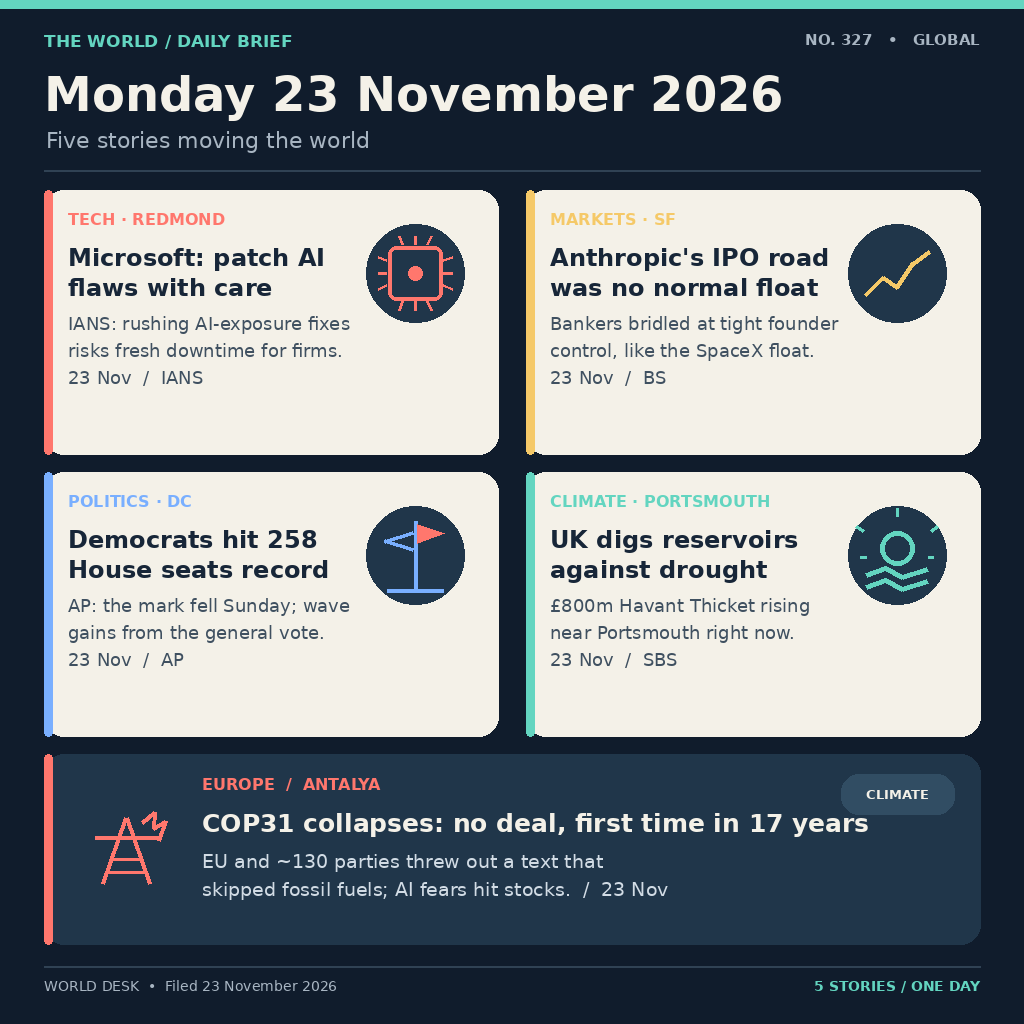
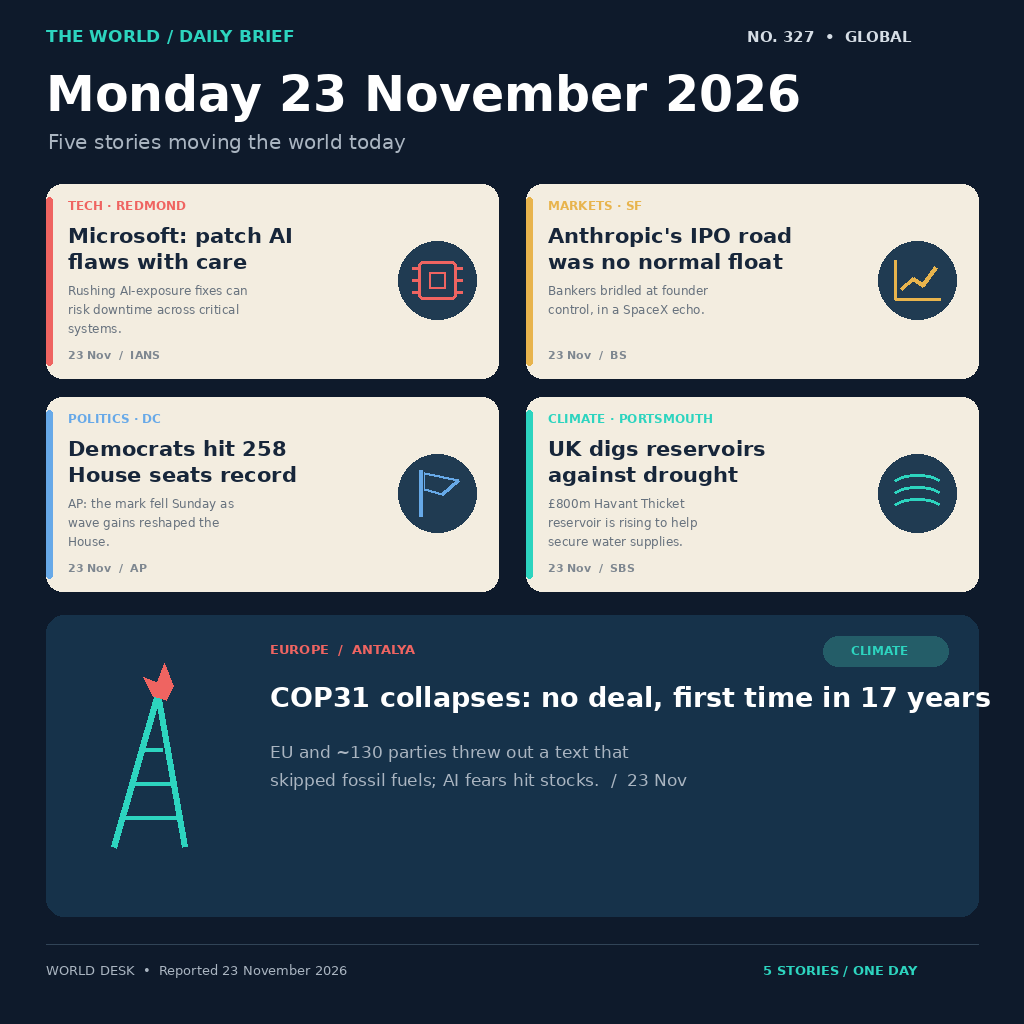
news r5 edits

diff --git a/main.py b/main.py
@@ -1,152 +1,87 @@
-# news-image-20261123 · revision 3
-#!/usr/bin/env python3
-"""Reusable news-image generator (news-image-20261123, based on proven news22d/repo3 engine).
+import os
+from PIL import Image, ImageDraw, ImageFont
 
-NEXT-RUN USAGE:
-  1. Edit DATE_LINE and STORIES below with 23 Nov 2026 news (5-6 stories, cross-region/field).
-  2. Test: mkdir -p out && MAKEFUN_OUTPUT_DIR=out python3 main.py   (check out/entry.png < 1 MiB, 1024x1024)
-  3. Copy out/entry.png to repo root as entry.png, commit, submit.
-"""
-import os, shutil, sys
-try:
-    from PIL import Image, ImageDraw, ImageFont
-except Exception:
-    os.makedirs("/output", exist_ok=True)
-    shutil.copyfile("/bot/entry.png", "/output/entry.png")
-    sys.exit(0)
-
-OUT = os.environ.get("MAKEFUN_OUTPUT_DIR", "/output") + "/entry.png"
 W = H = 1024
-BG = "#101C2C"
-PAPER = "#F4F1E8"
-INK = "#172638"
-MUTED = "#A8B5C2"
-TEAL = "#63D5C0"
-CORAL = "#FF776D"
-GOLD = "#F5C968"
-BLUE = "#79AFFF"
+NAVY = "#0e1a2b"
+TEAL = "#2dd4bf"
+CREAM = "#f3ede0"
+GRAY = "#aab5c1"
+INK = "#17263a"
+OUT = os.path.join(os.environ.get("MAKEFUN_OUTPUT_DIR", "out"), "entry.png")
 
-# ---------------- EDIT ONLY THIS BLOCK NEXT RUN ----------------
-DATE_LINE = "Monday 23 November 2026"
-SUBHEAD = "Five stories moving the world"
-STORIES = [
-    # STORIES — authored 23 Nov r4
-    (CORAL, "Tech · Redmond", ["Microsoft: patch AI", "flaws with care"],
-     ["IANS: rushing AI-exposure fixes", "risks fresh downtime for firms.", "23 Nov  /  IANS"], "ai"),
-    (GOLD, "Markets · SF", ["Anthropic's IPO road", "was no normal float"],
-     ["Bankers bridled at tight founder", "control, like the SpaceX float.", "23 Nov  /  BS"], "market"),
-    (BLUE, "Politics · DC", ["Democrats hit 258", "House seats record"],
-     ["AP: the mark fell Sunday; wave", "gains from the general vote.", "23 Nov  /  AP"], "diplomacy"),
-    (TEAL, "Climate · Portsmouth", ["UK digs reservoirs", "against drought"],
-     ["£800m Havant Thicket rising", "near Portsmouth right now.", "23 Nov  /  SBS"], "climate"),
-]
-# Wide bottom story (diplomatic dispatch style)
-WIDE = {
-    "region": "EUROPE  /  ANTALYA", "accent": CORAL, "kind": "fire",
-    "title": "COP31 collapses: no deal, first time in 17 years",
-    "l1": "EU and ~130 parties threw out a text that",
-    "l2": "skipped fossil fuels; AI fears hit stocks.  /  23 Nov",
-    "badge": "CLIMATE",
-}
-FOOTER_LEFT = "WORLD DESK  •  Filed 23 November 2026"
-# ----------------------------------------------------------------
-
-def font(size, bold=False):
-    candidates = (["/usr/share/fonts/truetype/dejavu/DejaVuSans-Bold.ttf"] if bold else
-                  ["/usr/share/fonts/truetype/dejavu/DejaVuSans.ttf"])
-    for path in candidates:
-        if os.path.exists(path):
-            return ImageFont.truetype(path, size)
-    return ImageFont.load_default()
-
-im = Image.new("RGB", (W, H), BG)
+im = Image.new("RGB", (W, H), NAVY)
 d = ImageDraw.Draw(im)
+font_dir = "/usr/share/fonts/truetype/dejavu"
+regular = os.path.join(font_dir, "DejaVuSans.ttf")
+bold = os.path.join(font_dir, "DejaVuSans-Bold.ttf")
+def f(size, heavy=False):
+    return ImageFont.truetype(bold if heavy else regular, size)
 
-def rr(box, radius, fill, outline=None, width=1):
-    d.rounded_rectangle(box, radius=radius, fill=fill, outline=outline, width=width)
+def text(x, y, value, size, color, heavy=False):
+    d.text((x, y), value, font=f(size, heavy), fill=color)
 
-def text(x, y, s, size, fill=INK, bold=False, anchor=None):
-    d.text((x, y), s, font=font(size, bold), fill=fill, anchor=anchor)
+def badge(cx, cy, kind, color):
+    r = 39
+    d.ellipse((cx-r, cy-r, cx+r, cy+r), fill="#203b52")
+    if kind == "chip":
+        d.rounded_rectangle((cx-19, cy-19, cx+19, cy+19), radius=5, outline=color, width=3)
+        d.rectangle((cx-8, cy-8, cx+8, cy+8), outline=color, width=2)
+        for n in (-12, 0, 12):
+            d.line((cx-25, cy+n, cx-19, cy+n), fill=color, width=3)
+            d.line((cx+19, cy+n, cx+25, cy+n), fill=color, width=3)
+    elif kind == "chart":
+        d.line((cx-22, cy+19, cx-22, cy-20), fill=color, width=3)
+        d.line((cx-22, cy+19, cx+23, cy+19), fill=color, width=3)
+        d.line((cx-16, cy+9, cx-4, cy-2, cx+6, cy+5, cx+19, cy-13), fill=color, width=4, joint="curve")
+    elif kind == "flag":
+        d.line((cx-16, cy+23, cx-16, cy-23), fill=color, width=4)
+        d.polygon(((cx-13,cy-20),(cx+21,cy-13),(cx+5,cy+1),(cx-13,cy-4)), outline=color)
+        d.line((cx-13, cy-20, cx+21, cy-13, cx+5, cy+1, cx-13, cy-4), fill=color, width=3)
+    else:
+        for off in (-10, 2, 14):
+            d.arc((cx-24, cy+off-9, cx+24, cy+off+9), 200, 340, fill=color, width=3)
 
-def line(points, fill, width=4):
-    d.line(points, fill=fill, width=width, joint="curve")
+text(46, 26, "THE WORLD / DAILY BRIEF", 17, TEAL, True)
+text(747, 28, "NO. 327  •  GLOBAL", 15, "#d5dde5", True)
+text(46, 65, "Monday 23 November 2026", 49, "#ffffff", True)
+text(48, 130, "Five stories moving the world today", 20, GRAY)
 
-def icon(kind, cx, cy, color):
-    d.ellipse((cx-49, cy-49, cx+49, cy+49), fill="#20364A")
-    if kind == "climate":
-        d.ellipse((cx-17, cy-24, cx+17, cy+10), outline=color, width=5)
-        for a,b in [(-34,-24),(-31,2),(34,-24),(31,2),(0,-39)]:
-            line([(cx+a,cy+b),(cx+a*1.18,cy+b*1.18)], color, 3)
-        line([(cx-31,cy+20),(cx-12,cy+13),(cx+5,cy+22),(cx+30,cy+14)], color, 5)
-        line([(cx-31,cy+32),(cx-12,cy+25),(cx+5,cy+34),(cx+30,cy+26)], color, 5)
-    elif kind == "ai":
-        rr((cx-27,cy-27,cx+27,cy+27),8,None,color,4)
-        for dx,dy in [(-37,-16),(-37,0),(-37,16),(37,-16),(37,0),(37,16),(-16,-37),(0,-37),(16,-37),(-16,37),(0,37),(16,37)]:
-            line([(cx+dx,cy+dy),(cx+dx*0.78,cy+dy*0.78)],color,3)
-        d.ellipse((cx-7,cy-7,cx+7,cy+7),fill=color)
-    elif kind == "ship":
-        line([(cx-37,cy+12),(cx+37,cy+12),(cx+23,cy+29),(cx-23,cy+29),(cx-37,cy+12)],color,4)
-        rr((cx-19,cy-12,cx+15,cy+9),3,None,color,4)
-        line([(cx-26,cy+38),(cx-9,cy+33),(cx+8,cy+38),(cx+25,cy+33)],color,3)
-        line([(cx+30,cy-31),(cx+19,cy-18),(cx+31,cy-15),(cx+20,cy-1)],GOLD,4)
-    elif kind == "fire":
-        line([(cx-23,cy+34),(cx,cy-32),(cx+23,cy+34)],color,4)
-        line([(cx-16,cy+10),(cx+16,cy+10)],color,3)
-        line([(cx-20,cy+23),(cx+20,cy+23)],color,3)
-        line([(cx-31,cy-12),(cx+31,cy-12)],color,4)
-        line([(cx+16,cy-27),(cx+28,cy-37),(cx+27,cy-21),(cx+39,cy-28),(cx+32,cy-8)],CORAL,4)
-    elif kind == "diplomacy":
-        line([(cx,cy-34),(cx,cy+35)],color,4)
-        d.polygon([(cx+2,cy-31),(cx+29,cy-22),(cx+2,cy-12)],fill=CORAL)
-        line([(cx-2,cy-5),(cx-30,cy-14),(cx-2,cy-23)],color,4)
-        line([(cx-28,cy+35),(cx+28,cy+35)],color,4)
-    elif kind == "health":
-        line([(cx,cy-28),(cx,cy+28)],color,6)
-        line([(cx-28,cy),(cx+28,cy)],color,6)
-        d.ellipse((cx-34,cy-16,cx-18,cy),outline=color,width=3)
-    elif kind == "market":
-        line([(cx-32,cy+22),(cx-14,cy+4),(cx, cy+14),(cx+16,cy-10),(cx+32,cy-22)],color,4)
+cards = [
+    (46, 184, "#ef6461", "TECH · REDMOND", ["Microsoft: patch AI", "flaws with care"], ["Rushing AI-exposure fixes can", "risk downtime across critical", "systems."], "23 Nov  /  IANS", "chip"),
+    (526, 184, "#e8b44d", "MARKETS · SF", ["Anthropic's IPO road", "was no normal float"], ["Bankers bridled at founder", "control, in a SpaceX echo.", ""], "23 Nov  /  BS", "chart"),
+    (46, 397, "#67a9e8", "POLITICS · DC", ["Democrats hit 258", "House seats record"], ["AP: the mark fell Sunday as", "wave gains reshaped the", "House."], "23 Nov  /  AP", "flag"),
+    (526, 397, TEAL, "CLIMATE · PORTSMOUTH", ["UK digs reservoirs", "against drought"], ["£800m Havant Thicket", "reservoir is rising to help", "secure water supplies."], "23 Nov  /  SBS", "waves"),
+]
+for x, y, accent, kicker, title, body, credit, glyph in cards:
+    d.rounded_rectangle((x, y, x+452, y+194), radius=16, fill=CREAM)
+    d.rounded_rectangle((x, y+13, x+6, y+181), radius=3, fill=accent)
+    text(x+22, y+14, kicker, 12, accent, True)
+    text(x+22, y+39, title[0], 21, INK, True)
+    text(x+22, y+65, title[1], 21, INK, True)
+    for i, line in enumerate(body):
+        if line:
+            text(x+22, y+99+i*19, line, 12, "#66717d")
+    text(x+22, y+164, credit, 11, "#7e8790", True)
+    badge(x+391, y+96, glyph, accent)
 
-def card(x, y, w, h, accent, kicker, title_lines, body_lines, kind):
-    rr((x,y,x+w,y+h),20,PAPER)
-    d.rounded_rectangle((x,y,x+8,y+h),radius=4,fill=accent)
-    icon(kind,x+w-83,y+83,accent)
-    text(x+24,y+20,kicker.upper(),16,accent,True)
-    for i, s in enumerate(title_lines):
-        text(x+24,y+53+i*30,s,24,INK,True)
-    for i, s in enumerate(body_lines):
-        text(x+24,y+123+i*27,s,18,"#3F5060")
+# The evening lead spans the full page width.
+d.rounded_rectangle((46, 615, 978, 916), radius=18, fill="#16324a")
+text(270, 641, "EUROPE  /  ANTALYA", 13, "#ef6461", True)
+d.rounded_rectangle((823, 636, 948, 666), radius=15, fill="#245d68")
+text(851, 643, "CLIMATE", 12, TEAL, True)
+text(270, 681, "COP31 collapses: no deal, first time in 17 years", 27, "#ffffff", True)
+text(270, 742, "EU and ~130 parties threw out a text that", 17, GRAY)
+text(270, 770, "skipped fossil fuels; AI fears hit stocks.  /  23 Nov", 17, GRAY)
+# A ladder beside a small flame marks the summit story.
+d.line((114, 847, 158, 694), fill=TEAL, width=6)
+d.line((185, 847, 158, 694), fill=TEAL, width=6)
+for yy in (817, 783, 749, 715):
+    d.line((125+(817-yy)//4, yy, 179-(817-yy)//4, yy), fill=TEAL, width=4)
+d.polygon(((153,696),(143,677),(157,682),(164,663),(173,686),(166,700)), fill="#ef6461")
 
-# Masthead
-d.rectangle((0,0,W,8),fill=TEAL)
-text(44,31,"THE WORLD / DAILY BRIEF",17,TEAL,True)
-text(980,31,"NO. 327   •   GLOBAL",15,MUTED,True,anchor="ra")
-text(44,66,DATE_LINE,48,PAPER,True)
-text(46,127,SUBHEAD,22,MUTED)
-line([(44,170),(980,170)],"#304254",2)
-
-# Four compact cards
-cw, ch = 454, 264
-positions = [(44,190),(526,190),(44,472),(526,472)]
-for (x,y),(accent,kicker,tl,bl,kind) in zip(positions,STORIES):
-    card(x,y,cw,ch,accent,kicker,tl,bl,kind)
-
-# Wide bottom story
-wd = WIDE
-rr((44,754,980,944),20,"#20364A")
-d.rounded_rectangle((44,754,52,944),radius=4,fill=wd["accent"])
-icon(wd["kind"],126,849,wd["accent"])
-text(202,775,wd["region"],16,wd["accent"],True)
-text(202,808,wd["title"],25,PAPER,True)
-text(202,850,wd["l1"],19,"#D2DCE5")
-text(202,878,wd["l2"],19,"#D2DCE5")
-rr((841,774,954,814),18,"#314D63")
-text(897,794,wd["badge"],13,PAPER,True,anchor="mm")
-
-line([(44,966),(980,966)],"#304254",2)
-text(44,978,FOOTER_LEFT,14,MUTED)
-text(980,978,"5 STORIES / ONE DAY",14,TEAL,True,anchor="ra")
-
+d.line((46, 944, 978, 944), fill="#314457", width=1)
+text(46, 962, "WORLD DESK  •  Reported 23 November 2026", 13, GRAY)
+text(763, 962, "5 STORIES / ONE DAY", 13, TEAL, True)
 os.makedirs(os.path.dirname(OUT) or ".", exist_ok=True)
-im.save(OUT, format="PNG", optimize=True)
-print("wrote", OUT, os.path.getsize(OUT), "bytes")
+im.save(OUT)
+print(f"wrote {OUT}")
